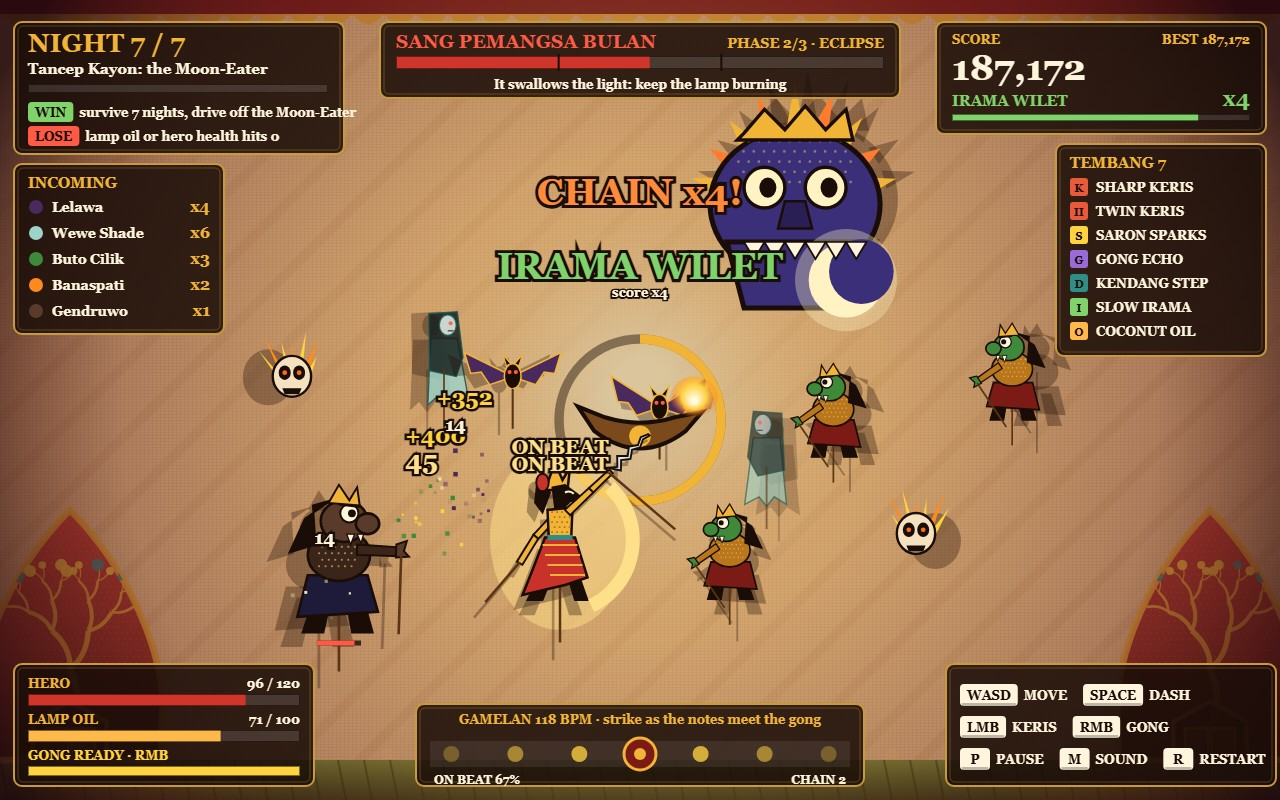
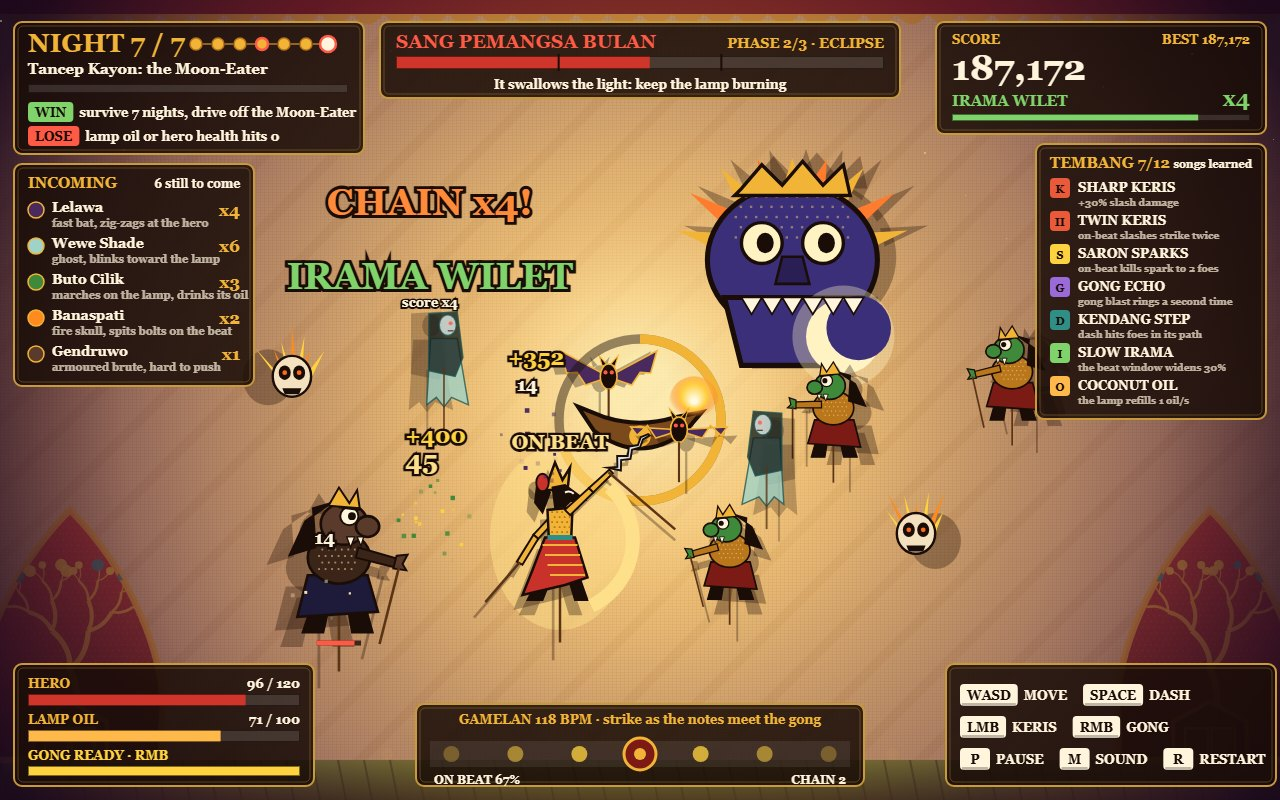
DALANG v2: clearer HUD (foe behaviours, tembang effects, lakon dots), eclipse lighting, recentred boss cover

diff --git a/game/src/hud.js b/game/src/hud.js
@@ -66,13 +66,36 @@ function tag(ctx, label, x, y, color) {
   return w;
 }
 
+// The seven nights as a row of dots: cleared, current, and the two boss nights ringed red.
+function drawLakonDots(ctx, g, x0, y) {
+  NIGHTS.forEach((n, i) => {
+    const x = x0 + i * 22;
+    if (i < NIGHTS.length - 1) {
+      ctx.strokeStyle = 'rgba(242, 180, 55, 0.5)';
+      ctx.lineWidth = 2;
+      ctx.beginPath();
+      ctx.moveTo(x + 7, y);
+      ctx.lineTo(x + 15, y);
+      ctx.stroke();
+    }
+    ctx.fillStyle = i < g.nightIndex ? PALETTE.gold : i === g.nightIndex ? PALETTE.cream : 'rgba(255,255,255,0.15)';
+    ctx.strokeStyle = n.boss ? PALETTE.bad : PALETTE.goldDeep;
+    ctx.lineWidth = n.boss ? 2.5 : 1.5;
+    ctx.beginPath();
+    ctx.arc(x, y, i === g.nightIndex ? 8 : 6, 0, Math.PI * 2);
+    ctx.fill();
+    ctx.stroke();
+  });
+}
+
 function drawNightPanel(ctx, g) {
-  panel(ctx, 14, 22, 330, 132);
+  panel(ctx, 14, 22, 350, 132);
   text(ctx, `NIGHT ${g.nightIndex + 1} / ${NIGHTS.length}`, 28, 52, 26, PALETTE.gold, 900);
+  drawLakonDots(ctx, g, 196, 44);
   text(ctx, g.night.title, 28, 74, 15, PALETTE.cream, 600);
   const remaining = g.queue.length + g.foes.length + (g.boss || g.bossPending ? 1 : 0);
   const done = 1 - remaining / Math.max(1, g.nightTotal + 2);
-  bar(ctx, 28, 84, 300, 9, done, PALETTE.teal);
+  bar(ctx, 28, 84, 320, 9, done, PALETTE.teal);
   let w = tag(ctx, 'WIN', 28, 102, PALETTE.good);
   text(ctx, 'survive 7 nights, drive off the Moon-Eater', 28 + w + 6, 117, 13, PALETTE.cream, 600);
   w = tag(ctx, 'LOSE', 28, 126, PALETTE.bad);
@@ -84,17 +107,22 @@ function drawIncoming(ctx, g) {
   for (const k of g.queue) counts[k] = (counts[k] || 0) + 1;
   for (const f of g.foes) counts[f.kind] = (counts[f.kind] || 0) + 1;
   const kinds = Object.keys(counts);
-  const h = 40 + kinds.length * 26;
-  panel(ctx, 14, 164, 210, h);
+  const h = 42 + kinds.length * 36;
+  panel(ctx, 14, 164, 240, h);
   text(ctx, 'INCOMING', 28, 188, 15, PALETTE.gold, 900);
+  text(ctx, `${g.queue.length} still to come`, 240, 188, 12, PALETTE.cream, 600, 'right');
   kinds.forEach((k, i) => {
-    const y = 212 + i * 26;
+    const y = 212 + i * 36;
     ctx.fillStyle = FOE_KINDS[k].color;
+    ctx.strokeStyle = PALETTE.gold;
+    ctx.lineWidth = 1.5;
     ctx.beginPath();
-    ctx.arc(36, y - 5, 7, 0, Math.PI * 2);
+    ctx.arc(36, y - 2, 8, 0, Math.PI * 2);
     ctx.fill();
-    text(ctx, FOE_KINDS[k].name, 52, y, 14, PALETTE.cream, 700);
-    text(ctx, `x${counts[k]}`, 210, y, 16, PALETTE.gold, 900, 'right');
+    ctx.stroke();
+    text(ctx, FOE_KINDS[k].name, 52, y, 14, PALETTE.cream, 800);
+    text(ctx, FOE_KINDS[k].behaviour, 52, y + 15, 11, 'rgba(255,244,220,0.7)', 600);
+    text(ctx, `x${counts[k]}`, 240, y + 4, 17, PALETTE.gold, 900, 'right');
   });
 }
 
@@ -135,19 +163,22 @@ function drawScorePanel(ctx, g) {
 
 function drawTembangPanel(ctx, g) {
   const list = g.ownedTembang();
-  const x = 1056; const w = 210;
-  const h = 44 + Math.max(1, list.length) * 24;
+  const x = 1036; const w = 230;
+  const rows = list.slice(0, 9);
+  const h = 44 + Math.max(1, rows.length) * 33;
   panel(ctx, x, 144, w, h);
-  text(ctx, `TEMBANG ${list.length}`, x + 14, 168, 15, PALETTE.gold, 900);
+  text(ctx, `TEMBANG ${list.length}/12`, x + 14, 168, 15, PALETTE.gold, 900);
+  text(ctx, 'songs learned', x + w - 14, 168, 11, PALETTE.cream, 600, 'right');
   if (!list.length) text(ctx, 'learn songs between nights', x + 14, 192, 12, PALETTE.cream, 600);
-  list.slice(0, 10).forEach((t, i) => {
-    const y = 192 + i * 24;
+  rows.forEach((t, i) => {
+    const y = 192 + i * 33;
     ctx.fillStyle = t.color;
     ctx.beginPath();
-    ctx.roundRect(x + 14, y - 14, 18, 18, 3);
+    ctx.roundRect(x + 14, y - 14, 20, 20, 4);
     ctx.fill();
-    text(ctx, t.icon, x + 23, y, 11, PALETTE.ink, 900, 'center');
-    text(ctx, t.name, x + 40, y, 13, PALETTE.cream, 700);
+    text(ctx, t.icon, x + 24, y + 1, 11, PALETTE.ink, 900, 'center');
+    text(ctx, t.name, x + 42, y, 13, PALETTE.cream, 800);
+    text(ctx, t.text, x + 42, y + 14, 10, 'rgba(255,244,220,0.7)', 600);
   });
 }
 

diff --git a/game/src/enemies.js b/game/src/enemies.js
@@ -6,11 +6,11 @@ import { dist, angleTo, clamp } from './rng.js';
 import { drawWithShadow, drawButo, drawLelawa, drawBanaspati, drawWewe, drawGendruwo } from './puppets.js';
 
 export const FOE_KINDS = {
-  buto: { name: 'Buto Cilik', hp: 22, speed: 74, radius: 26, scale: 0.85, damage: 10, score: 100, color: '#3f8a3a', targetsLamp: true },
-  lelawa: { name: 'Lelawa', hp: 10, speed: 160, radius: 22, scale: 1.05, damage: 8, score: 80, color: '#4a2a5e', targetsLamp: false },
-  banaspati: { name: 'Banaspati', hp: 18, speed: 90, radius: 24, scale: 1.2, damage: 12, score: 150, color: '#ff8a1e', targetsLamp: false },
-  wewe: { name: 'Wewe Shade', hp: 30, speed: 70, radius: 24, scale: 0.95, damage: 14, score: 180, color: '#9fd3c9', targetsLamp: true },
-  gendruwo: { name: 'Gendruwo', hp: 95, speed: 52, radius: 40, scale: 1.3, damage: 20, score: 400, color: '#5a3a2a', targetsLamp: true },
+  buto: { name: 'Buto Cilik', hp: 22, speed: 74, radius: 26, scale: 0.85, damage: 10, score: 100, color: '#3f8a3a', targetsLamp: true, behaviour: 'marches on the lamp, drinks its oil' },
+  lelawa: { name: 'Lelawa', hp: 10, speed: 160, radius: 22, scale: 1.05, damage: 8, score: 80, color: '#4a2a5e', targetsLamp: false, behaviour: 'fast bat, zig-zags at the hero' },
+  banaspati: { name: 'Banaspati', hp: 18, speed: 90, radius: 24, scale: 1.2, damage: 12, score: 150, color: '#ff8a1e', targetsLamp: false, behaviour: 'fire skull, spits bolts on the beat' },
+  wewe: { name: 'Wewe Shade', hp: 30, speed: 70, radius: 24, scale: 0.95, damage: 14, score: 180, color: '#9fd3c9', targetsLamp: true, behaviour: 'ghost, blinks toward the lamp' },
+  gendruwo: { name: 'Gendruwo', hp: 95, speed: 52, radius: 40, scale: 1.3, damage: 20, score: 400, color: '#5a3a2a', targetsLamp: true, behaviour: 'armoured brute, hard to push' },
 };
 
 export class Foe {

diff --git a/game/src/stage.js b/game/src/stage.js
@@ -72,8 +72,22 @@ export function drawKelir(ctx, t, darkness = 0) {
   ctx.fillStyle = glow;
   ctx.fillRect(0, 0, VIEW_W, VIEW_H);
   if (darkness > 0) {
-    ctx.fillStyle = `rgba(50, 14, 70, ${darkness * 0.32})`;
+    // eclipse: night creeps in from the edges while the lamp holds a warm island
+    const eclipse = ctx.createRadialGradient(LAMP_X, LAMP_Y, 120, LAMP_X, LAMP_Y, 820);
+    eclipse.addColorStop(0, 'rgba(40, 10, 60, 0)');
+    eclipse.addColorStop(0.45, `rgba(48, 16, 82, ${darkness * 0.45})`);
+    eclipse.addColorStop(1, `rgba(16, 6, 34, ${Math.min(0.92, darkness * 1.35)})`);
+    ctx.fillStyle = eclipse;
     ctx.fillRect(0, 0, VIEW_W, VIEW_H);
+    // a few stars pricking through the darkened screen
+    ctx.fillStyle = `rgba(255, 240, 200, ${darkness * 0.8})`;
+    for (let i = 0; i < 40; i++) {
+      const sx = (i * 397) % VIEW_W;
+      const sy = 20 + ((i * 211) % 300);
+      if (Math.hypot(sx - LAMP_X, sy - LAMP_Y) < 380) continue;
+      const tw = 1 + ((i + Math.floor(t * 2)) % 3 === 0 ? 1 : 0);
+      ctx.fillRect(sx, sy, tw, tw);
+    }
   }
 }
 

diff --git a/game/src/shots.js b/game/src/shots.js
@@ -61,8 +61,9 @@ function stagePlay(game, hand) {
   game.bossPending = null;
   game.boss = new Boss('moonEater', game.diff);
   game.boss.hp = game.boss.maxHp * 0.52;
-  game.boss.x = 860;
+  game.boss.x = 960;
   game.boss.y = 270;
+  game.boss.t = 2.4;
   game.player.x = 560;
   game.player.y = 600;
   game.player.hp = 96;
@@ -78,6 +79,9 @@ function stagePlay(game, hand) {
   ];
   for (const [k, x, y] of spots) game.spawnFoe(k, x, y);
   simulate(game, hand, 0.9);
+  game.boss.x = 790;
+  game.boss.y = 330;
+  game.effects.texts = game.effects.texts.filter((t) => t.text !== 'ON BEAT');
   game.clock.time = 0.01;
   hand.aimAtNearest();
   hand.mouse.leftPressed = true;

diff --git a/game/src/game.js b/game/src/game.js
@@ -98,8 +98,8 @@ export class Game {
     if (onBeat) {
       this.stats.onBeat += 1;
       this.streak += 1;
+      if (p.beatGlow < 0.6) this.effects.floatText(p.x, p.y - 150, 'ON BEAT', '#ffe08a', 20);
       p.beatGlow = 1;
-      this.effects.floatText(p.x, p.y - 128, 'ON BEAT', '#ffe08a', 20);
     } else {
       this.streak = Math.max(0, this.streak - 2);
     }

diff --git a/game/src/main.js b/game/src/main.js
@@ -95,7 +95,7 @@ function render() {
     drawWorld();
     if (game.state === 'play') {
       drawHud(ctx, game);
-      game.effects.drawCallouts(ctx, 640, 205);
+      game.effects.drawCallouts(ctx, 430, 215);
       if (game.paused) drawPause(ctx);
     } else if (game.state === 'draft') {
       drawDraft(ctx, game);
